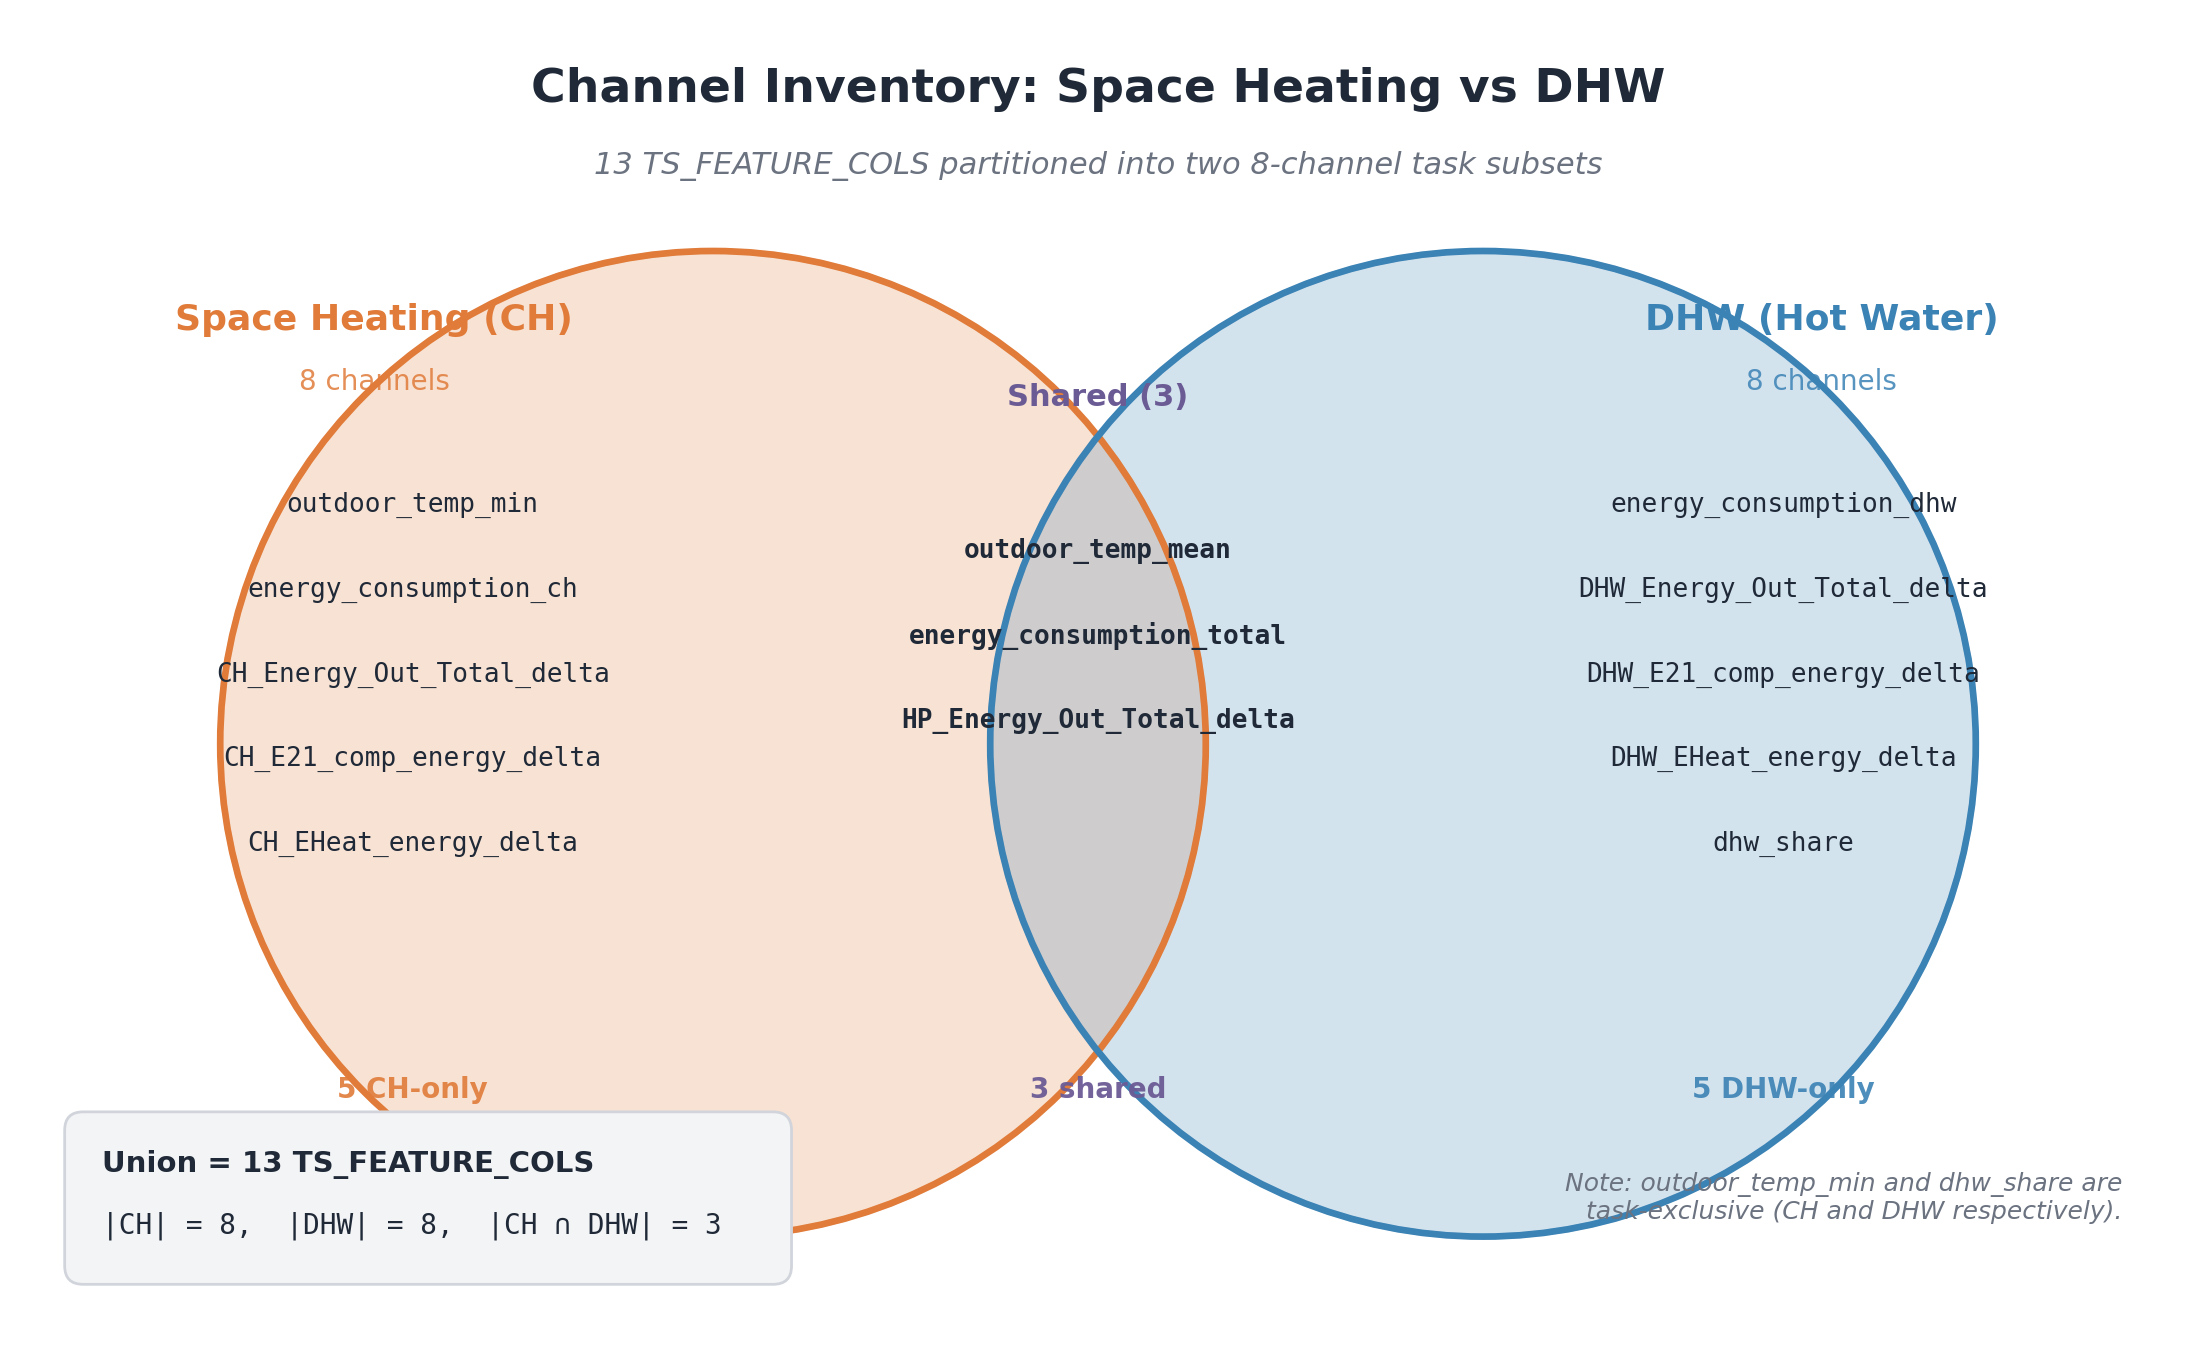
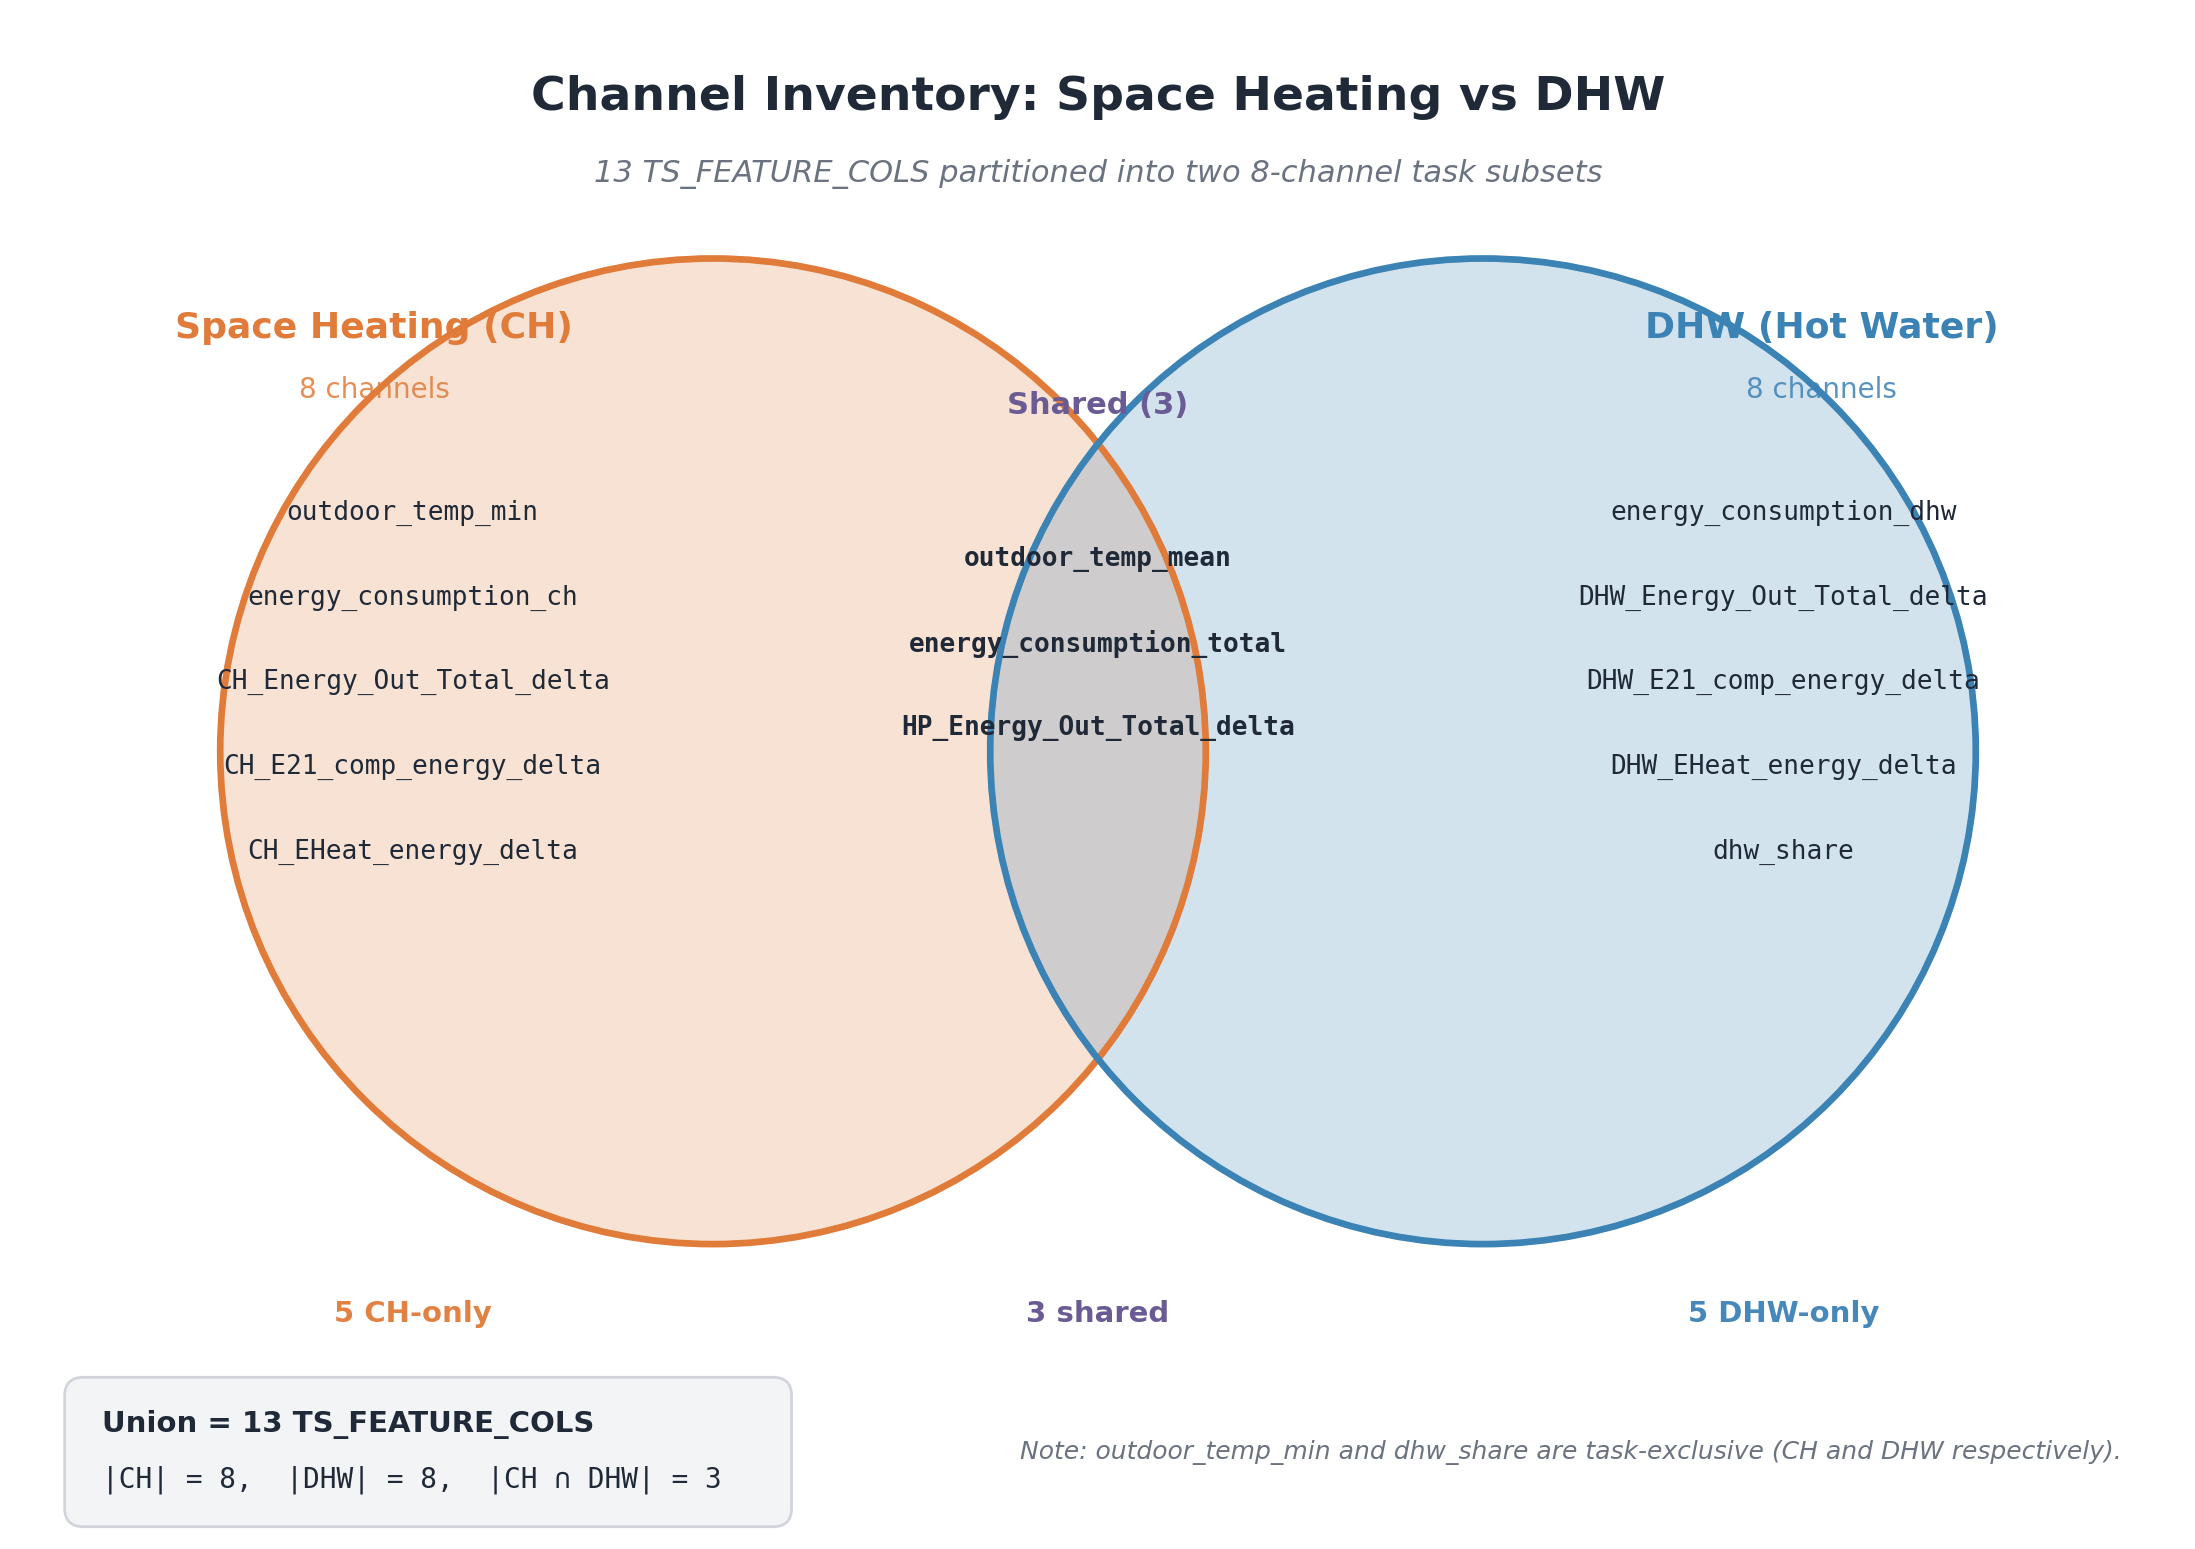
Fix figures after review for Bosch CheckIt: Expert Commentary Generation for Heat-Pump Time Series

diff --git a/bosch-checkit-expert-commentary-generation-for-heat-pump-tim/fig_008.py b/bosch-checkit-expert-commentary-generation-for-heat-pump-tim/fig_008.py
@@ -35,30 +35,30 @@ dhw_only = [
     "dhw_share",
 ]
 
-fig, ax = plt.subplots(figsize=(14, 8.5), dpi=200)
+fig, ax = plt.subplots(figsize=(14, 9.8), dpi=200)
 ax.set_xlim(0, 14)
-ax.set_ylim(0, 8.5)
+ax.set_ylim(0, 9.8)
 ax.set_aspect("equal")
 ax.axis("off")
 fig.patch.set_facecolor("white")
 
 # Title
 ax.text(
-    7.0, 8.05,
+    7.0, 9.30,
     "Channel Inventory: Space Heating vs DHW",
     ha="center", va="center",
     fontsize=17, fontweight="bold", color=TEXT_COLOR,
 )
 ax.text(
-    7.0, 7.55,
+    7.0, 8.80,
     "13 TS_FEATURE_COLS partitioned into two 8-channel task subsets",
     ha="center", va="center",
     fontsize=11, color=MUTED, style="italic",
 )
 
 # --- Venn circles ---
-ch_center = (4.5, 3.8)
-dhw_center = (9.5, 3.8)
+ch_center = (4.5, 5.05)
+dhw_center = (9.5, 5.05)
 radius = 3.2
 
 ch_circle = Circle(
@@ -78,32 +78,32 @@ ax.add_patch(dhw_circle)
 ax.add_patch(Circle(ch_center, radius, facecolor="none", edgecolor=CH_COLOR, linewidth=2.4))
 ax.add_patch(Circle(dhw_center, radius, facecolor="none", edgecolor=DHW_COLOR, linewidth=2.4))
 
-# --- Circle headers ---
+# --- Circle headers (just above the circle tops) ---
 ax.text(
-    2.3, 6.55, "Space Heating (CH)",
+    2.3, 7.80, "Space Heating (CH)",
     ha="center", va="center",
     fontsize=13, fontweight="bold", color=CH_COLOR,
 )
 ax.text(
-    2.3, 6.15, "8 channels",
+    2.3, 7.40, "8 channels",
     ha="center", va="center",
     fontsize=10, color=CH_COLOR, alpha=0.85,
 )
 
 ax.text(
-    11.7, 6.55, "DHW (Hot Water)",
+    11.7, 7.80, "DHW (Hot Water)",
     ha="center", va="center",
     fontsize=13, fontweight="bold", color=DHW_COLOR,
 )
 ax.text(
-    11.7, 6.15, "8 channels",
+    11.7, 7.40, "8 channels",
     ha="center", va="center",
     fontsize=10, color=DHW_COLOR, alpha=0.85,
 )
 
 # Shared section header
 ax.text(
-    7.0, 6.05, "Shared (3)",
+    7.0, 7.30, "Shared (3)",
     ha="center", va="center",
     fontsize=11, fontweight="bold", color=SHARED_COLOR,
 )
@@ -113,7 +113,7 @@ mono = {"family": "monospace", "fontsize": 9.4}
 
 # CH-only labels (left side)
 ch_x = 2.55
-ch_y_start = 5.35
+ch_y_start = 6.60
 ch_y_step = 0.55
 for i, name in enumerate(ch_only):
     ax.text(
@@ -124,7 +124,7 @@ for i, name in enumerate(ch_only):
 
 # Shared labels (center overlap)
 shared_x = 7.0
-shared_y_start = 5.05
+shared_y_start = 6.30
 shared_y_step = 0.55
 for i, name in enumerate(shared):
     ax.text(
@@ -135,7 +135,7 @@ for i, name in enumerate(shared):
 
 # DHW-only labels (right side)
 dhw_x = 11.45
-dhw_y_start = 5.35
+dhw_y_start = 6.60
 dhw_y_step = 0.55
 for i, name in enumerate(dhw_only):
     ax.text(
@@ -144,28 +144,29 @@ for i, name in enumerate(dhw_only):
         color=TEXT_COLOR, **mono,
     )
 
-# --- Counts inside each region (bottom of each lobe) ---
+# --- Counts BELOW the circles (circles span y=1.85 to 8.25; bottoms at y=1.85 in center) ---
+counts_y = 1.40
 ax.text(
-    2.55, 1.55, "5 CH-only",
+    2.55, counts_y, "5 CH-only",
     ha="center", va="center",
-    fontsize=10, fontweight="bold", color=CH_COLOR, alpha=0.9,
+    fontsize=10.5, fontweight="bold", color=CH_COLOR, alpha=0.95,
 )
 ax.text(
-    7.0, 1.55, "3 shared",
+    7.0, counts_y, "3 shared",
     ha="center", va="center",
-    fontsize=10, fontweight="bold", color=SHARED_COLOR, alpha=0.95,
+    fontsize=10.5, fontweight="bold", color=SHARED_COLOR,
 )
 ax.text(
-    11.45, 1.55, "5 DHW-only",
+    11.45, counts_y, "5 DHW-only",
     ha="center", va="center",
-    fontsize=10, fontweight="bold", color=DHW_COLOR, alpha=0.9,
+    fontsize=10.5, fontweight="bold", color=DHW_COLOR, alpha=0.95,
 )
 
-# --- Legend / summary box bottom-left ---
+# --- Legend / summary box bottom-left (below the counts row) ---
 legend_x = 0.35
-legend_y = 0.85
+legend_y = 0.50
 legend_w = 4.6
-legend_h = 1.0
+legend_h = 0.85
 legend_box = FancyBboxPatch(
     (legend_x, legend_y - legend_h / 2),
     legend_w, legend_h,
@@ -174,7 +175,7 @@ legend_box = FancyBboxPatch(
 )
 ax.add_patch(legend_box)
 ax.text(
-    legend_x + 0.18, legend_y + 0.22,
+    legend_x + 0.18, legend_y + 0.18,
     "Union = 13 TS_FEATURE_COLS",
     ha="left", va="center",
     fontsize=10.5, fontweight="bold", color=TEXT_COLOR,
@@ -186,10 +187,10 @@ ax.text(
     fontsize=10, color=TEXT_COLOR, family="monospace",
 )
 
-# --- Footnote (bottom right) ---
+# --- Footnote on its own line at the bottom (clear of all circles and labels) ---
 ax.text(
-    13.65, 0.85,
-    "Note: outdoor_temp_min and dhw_share are\ntask-exclusive (CH and DHW respectively).",
+    13.65, 0.50,
+    "Note: outdoor_temp_min and dhw_share are task-exclusive (CH and DHW respectively).",
     ha="right", va="center",
     fontsize=9, color=MUTED, style="italic",
 )
